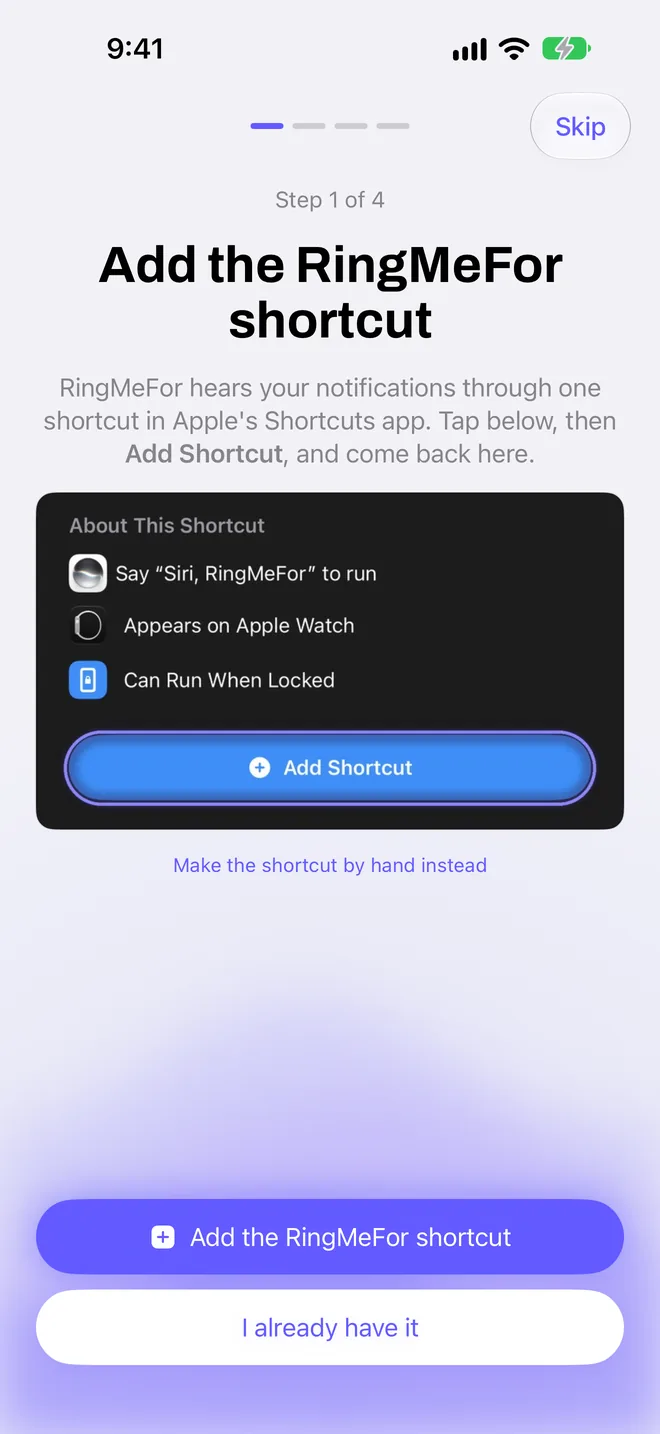
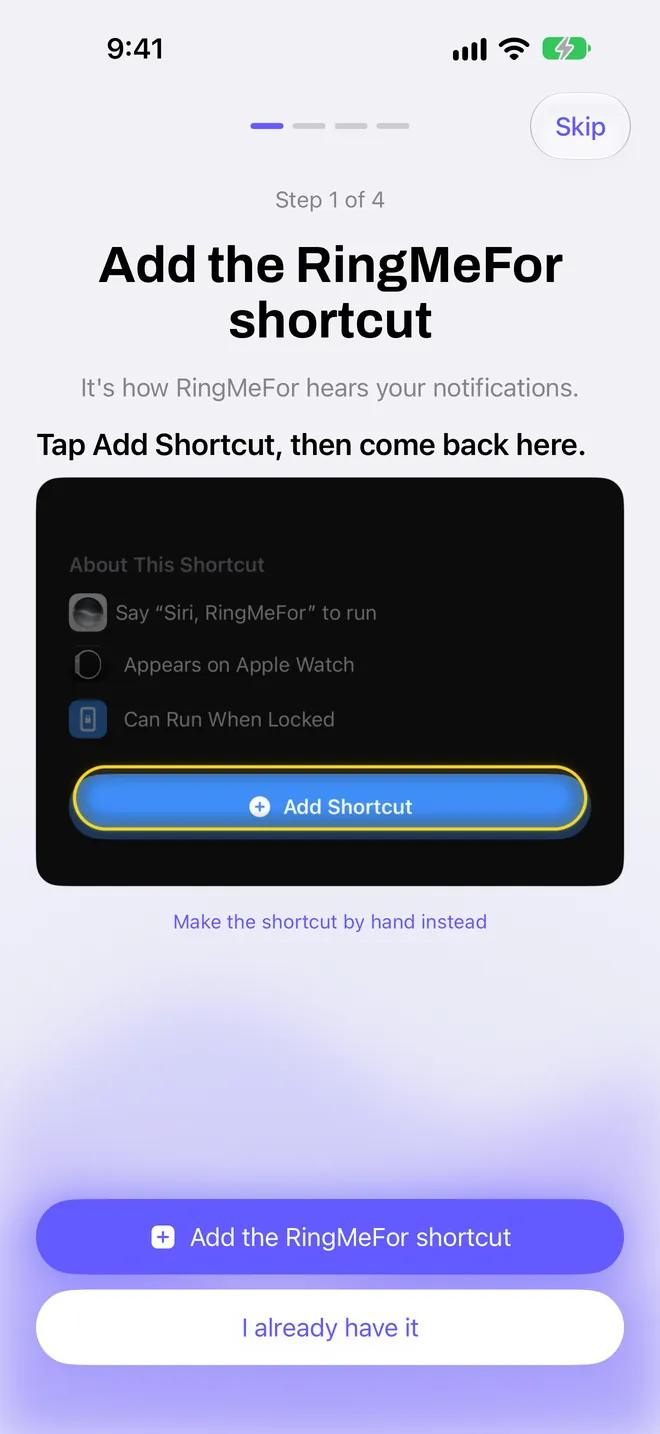
Setup steps in new wording, with new setup screenshots
Help: tap + next to the app names, find each app and tap it, tap the round
arrow next to +, switch on Automation and keep Notify off. Home: the setup
pages as the app shows them now. Also the help item for an app whose
notifications are off.

Claude-Session: https://claude.ai/code/session_014NKZs675oedrtAJAJBA9sZ

Changed region(s): [[0.0303, 0.2455, 0.9697, 0.6444]]

diff --git a/help.html b/help.html
@@ -68,10 +68,11 @@
       <h2 id="not-ringing">It didn't ring</h2>
       <p>Start in the app: tap the app on RingMeFor's Home screen, then <strong>Why Didn't It Ring?</strong>. It checks everything RingMeFor can see, and lists what to look at. The usual causes:</p>
       <div class="faq causes">
-<details class="slab-q"><summary>The app isn't in the RingMeFor shortcut.</summary><div class="answer"><ol class="fix"><li><span>In Shortcuts, tap <strong>RingMeFor</strong> in All Shortcuts, then <strong>Edit</strong>.</span></li><li><span>Look at the apps after “When I receive a notification from”.</span></li><li><span>If yours isn't there, tap <strong>+</strong> after the apps and pick it.</span></li></ol></div></details>
-<details class="slab-q"><summary>The automation is switched off.</summary><div class="answer"><ol class="fix"><li><span>In Shortcuts, tap <strong>RingMeFor</strong> in All Shortcuts, then <strong>Edit</strong>.</span></li><li><span>Tap the arrow at the end of the apps after “When I receive a notification from”.</span></li><li><span>Turn <strong>Automation</strong> on, and leave <strong>Notify</strong> off.</span></li></ol></div></details>
+<details class="slab-q"><summary>The app isn't in the RingMeFor shortcut.</summary><div class="answer"><ol class="fix"><li><span>In Shortcuts, open the RingMeFor shortcut and tap <strong>Edit</strong>.</span></li><li><span>Read the app names in “When I receive a notification from …”.</span></li><li><span>If yours isn't one of them, tap <strong>+</strong> next to the app names, then find your app and tap it.</span></li></ol></div></details>
+<details class="slab-q"><summary>The automation is switched off.</summary><div class="answer"><ol class="fix"><li><span>In Shortcuts, open the RingMeFor shortcut and tap <strong>Edit</strong>.</span></li><li><span>Tap the round arrow next to <strong>+</strong>.</span></li><li><span>Switch on <strong>Automation</strong>. Keep <strong>Notify</strong> off, or Shortcuts shows a banner every time it runs.</span></li></ol></div></details>
 <details class="slab-q"><summary>Allow Running When Locked is off, so nothing rings while your iPhone is locked.</summary><div class="answer"><ol class="fix"><li><span>In Shortcuts, open the RingMeFor shortcut and tap <strong>Edit</strong>.</span></li><li><span>Tap <strong>ⓘ</strong> at the bottom, then <strong>Privacy</strong>, and turn on Allow Running When Locked.</span></li></ol></div></details>
 <details class="slab-q"><summary>RingMeFor is hidden or requires Face ID.</summary><div class="answer"><ol class="fix"><li><span>Alarms from an app that's hidden or requires Face ID never ring.</span></li><li><span>Touch and hold the RingMeFor icon: if the menu says <strong>Don't Require Face ID</strong>, tap it.</span></li></ol></div></details>
+<details class="slab-q"><summary>The app's notifications may be off.</summary><div class="answer"><p>RingMeFor only hears notifications your iPhone receives. In <strong>Settings → Notifications</strong>, open the app and turn on <strong>Allow Notifications</strong>. Check the app's own settings too: some only notify for mentions, or not while you're active on a computer.</p></div></details>
 <details class="slab-q"><summary>A Focus, such as Sleep, or Scheduled Summary may be holding back the app's notifications.</summary><div class="answer"><ol class="fix"><li><span>Allow the app in each Focus you use: <strong>Settings → Focus</strong>.</span></li><li><span>Keep it out of <strong>Settings → Notifications → Scheduled Summary</strong>.</span></li></ol></div></details>
 <details class="slab-q"><summary>The app didn't send a notification.</summary><div class="answer"><ul class="fix"><li><span>Check <strong>Settings → Notifications</strong> and the app's own settings: some apps only notify for mentions.</span></li></ul></div></details>
 <details class="slab-q"><summary>RingMeFor is off, the app is off or paused, or the app shows Needs Pro to ring.</summary><div class="answer"><ol class="fix"><li><span>Tap <strong>On</strong> at the top of RingMeFor's Home screen, and turn on the app's switch.</span></li><li><span>If the app's page says <strong>Paused until…</strong>, tap <strong>Resume</strong>. A paused rule says “paused until …” under its name: touch and hold it, then tap <strong>Resume</strong>.</span></li><li><span>If the app shows <strong>Needs Pro to ring</strong>: free RingMeFor rings for one app (see <a href="#pro">RingMeFor Pro</a>).</span></li></ol></div></details>
@@ -91,9 +92,9 @@
       <ol class="steps">
   <li><span>Open RingMeFor and follow the setup: it explains the alarms, iOS asks whether RingMeFor may set alarms, and you pick the apps that should ring. Then it sets up the RingMeFor shortcut with you, one step a page, the steps below.</span></li>
   <li><span>Tap <strong>Add the RingMeFor shortcut</strong>, then <strong>Add Shortcut</strong>, and come back to RingMeFor. One shortcut covers all your apps, and it can already run while your iPhone is locked. Have it from before you reinstalled RingMeFor? Tap <strong>I already have it</strong> instead.</span></li>
-  <li><div>Next, add your apps to it. Tap <strong>Open the RingMeFor shortcut</strong>, then <strong>Edit</strong> at the top right. Tap <strong>+</strong> at the end of the apps after “When I receive a notification from” and pick one of your apps; tap <strong>+</strong> again for each of the others. Only apps on your iPhone can be picked. Reminders is already listed, so if it's your only app, there's no page for this.<figure class="help-shot"><img src="images/help-shortcut-apps.png" width="900" height="401" alt="The RingMeFor shortcut in Shortcuts: “When I receive a notification from RingMeFor or Reminders”, then a + button to add another app."></figure></div></li>
-  <li><div><strong>Don't skip this one.</strong> In the shortcut's editor (<strong>Open the RingMeFor shortcut</strong>, then <strong>Edit</strong>), tap the arrow at the end of the apps to show the automation's switches. Turn <strong>Automation</strong> on, and leave <strong>Notify</strong> off. Shared shortcuts always arrive switched off, and RingMeFor hears nothing until you turn it on.<figure class="help-shot"><img src="images/help-automation.png" width="900" height="553" alt="The RingMeFor shortcut's switches: Automation turned on, Notify off."></figure></div></li>
-  <li><span>Back in RingMeFor, on the last page (or later in <strong>Settings</strong>), tap <strong>Test with the Phone Locked</strong>, then <strong>Start the Test</strong>. If iOS asks whether RingMeFor may send notifications, allow it: the test uses a notification from RingMeFor itself. Then lock your iPhone. The first time, go to the Home Screen instead, so you can answer if Shortcuts asks whether RingMeFor can run: tap <strong>Always Allow</strong>, then run the test again with your iPhone locked. A test alarm rings within about 20 seconds; if it doesn't, the screen lists what to check.</span></li>
+  <li><div>Next, add your apps to it. Tap <strong>Open the RingMeFor shortcut</strong>, then <strong>Edit</strong> at the top right. Tap <strong>+</strong> next to the app names, then find one of your apps and tap it. Add each of the others the same way. Only apps on your iPhone are in the list. Reminders is already there, so if it's your only app, setup skips this page.<figure class="help-shot"><img src="images/help-shortcut-apps.png" width="900" height="401" alt="The RingMeFor shortcut in Shortcuts: “When I receive a notification from RingMeFor or Reminders”, then a + button to add another app."></figure></div></li>
+  <li><div><strong>Don't skip this one.</strong> Still in the shortcut's editor (<strong>Open the RingMeFor shortcut</strong>, then <strong>Edit</strong>), tap the round arrow next to <strong>+</strong>. Switch on <strong>Automation</strong>. Keep <strong>Notify</strong> off, or Shortcuts shows a banner every time it runs. A shortcut added from a link starts with its automation off, and RingMeFor hears nothing until you switch it on.<figure class="help-shot"><img src="images/help-automation.png" width="900" height="553" alt="In the RingMeFor shortcut, Automation switched on and Notify off."></figure></div></li>
+  <li><span>Return to RingMeFor. On the last page (or later in <strong>Settings</strong>), tap <strong>Test with the Phone Locked</strong>, then <strong>Start the Test</strong>. If iOS asks whether RingMeFor may send notifications, allow it: the test uses a notification from RingMeFor itself. Then lock your iPhone. The first time, go to the Home Screen instead, so you can answer if Shortcuts asks whether RingMeFor can run: tap <strong>Always Allow</strong>, then run the test again with your iPhone locked. A test alarm rings within about 20 seconds; if it doesn't, the screen lists what to check.</span></li>
   <li><span>Wait for a notification from your app, or ask someone to message you there. When RingMeFor hears from it, the app's row on the Home screen says Connected. A message rings only if it matches the app's rule: see <a href="#ready-made-rules">what a ready-made app rings for</a>.</span></li>
 </ol>
       <p class="note">Skipped setup? Until the shortcut is set up, the Home screen shows <strong>Finish setting up</strong>: tap <strong>Set Up the Shortcut</strong> for the same steps. Adding an app or tapping <strong>Connect</strong> takes you there too.</p>
@@ -103,7 +104,7 @@
 
     <section class="help-part" aria-labelledby="add-app">
       <h2 id="add-app">Adding an app later</h2>
-      <p>On RingMeFor's Home screen, tap <strong>Add Apps</strong> and pick the app from the 77 ready-made ones, or type its name under <strong>Another app</strong>, then tap <strong>Add</strong>. RingMeFor only hears apps listed in the RingMeFor shortcut, so it goes straight on to adding them there: tap <strong>Open the RingMeFor shortcut</strong>, then <strong>Edit</strong>, tap <strong>+</strong> after the apps, and pick each new app. If one is already listed there, as many were in the shortcut from RingMeFor 1.0, there's nothing to add for it. Each one turns green as soon as one of its notifications comes through. If you tap <strong>Done</strong> before that, the app shows <strong>Not connected yet</strong> on the Home screen; tap it, then <strong>Connect</strong>.</p>
+      <p>On RingMeFor's Home screen, tap <strong>Add Apps</strong> and pick the app from the 77 ready-made ones, or type its name under <strong>Another app</strong>, then tap <strong>Add</strong>. RingMeFor only hears apps listed in the RingMeFor shortcut, so it goes straight on to adding them there: tap <strong>Open the RingMeFor shortcut</strong>, then <strong>Edit</strong>, tap <strong>+</strong> next to the app names, then find each new app and tap it. If one is already listed there, as many were in the shortcut from RingMeFor 1.0, there's nothing to add for it. Each one turns green as soon as one of its notifications comes through. If you tap <strong>Done</strong> before that, the app shows <strong>Not connected yet</strong> on the Home screen; tap it, then <strong>Connect</strong>.</p>
 <p>Free RingMeFor rings for one app, with one rule. You can still add as many apps as you like: the others show <strong>Needs Pro to ring</strong>, and you can choose which app is the one that rings (see <a href="#pro">RingMeFor Pro</a>).</p>
     </section>
 
@@ -206,7 +207,7 @@
 <div class="faq">
 <details class="slab-q" id="ios-26"><summary>I'm on iOS 26.</summary><div class="answer"><p>RingMeFor needs iOS 27 or later, because the Shortcuts automation it relies on, “When I receive a notification from…”, came with iOS 27. To update, open <strong>Settings → General → Software Update</strong>.</p></div></details>
 <details class="slab-q" id="keep-open"><summary>Do I need to keep RingMeFor open?</summary><div class="answer"><p>No. When a notification arrives from one of the RingMeFor shortcut's apps, iOS runs the shortcut, which starts RingMeFor for a moment to check it.</p></div></details>
-<details class="slab-q" id="second-device"><summary>Can I use it on an iPad, or on more than one iPhone?</summary><div class="answer"><p>RingMeFor is made for iPhone. It may install on an iPad, but it isn't made or tested for one. On a second iPhone, <strong>Sync with iCloud</strong> (Settings → Your Data) brings your apps, groups, rules and alarm settings over and keeps them the same on both. Each iPhone still needs the RingMeFor shortcut and its automation: if you use iCloud for Shortcuts, the shortcut may already be there with its automation switched off, so turn it on (open the shortcut, tap <strong>Edit</strong>, then the arrow after its apps) and check Allow Running When Locked. History stays on each iPhone. Pro works on every iPhone signed in with the Apple Account you bought it with.</p></div></details>
+<details class="slab-q" id="second-device"><summary>Can I use it on an iPad, or on more than one iPhone?</summary><div class="answer"><p>RingMeFor is made for iPhone. It may install on an iPad, but it isn't made or tested for one. On a second iPhone, <strong>Sync with iCloud</strong> (Settings → Your Data) brings your apps, groups, rules and alarm settings over and keeps them the same on both. Each iPhone still needs the RingMeFor shortcut and its automation: if you use iCloud for Shortcuts, the shortcut may already be there with its automation switched off, so turn it on (open the shortcut, tap <strong>Edit</strong>, then the round arrow next to <strong>+</strong>) and check Allow Running When Locked. History stays on each iPhone. Pro works on every iPhone signed in with the Apple Account you bought it with.</p></div></details>
 <details class="slab-q" id="calls-texts"><summary>Can it ring for calls, texts or iMessages?</summary><div class="answer"><p>For calls and messages from people who matter, iOS has Emergency Bypass, which lets them sound even in Silent mode or a Focus: in <strong>Contacts</strong>, open the person, tap <strong>Edit</strong>, then <strong>Ringtone</strong> or <strong>Text Tone</strong>, and turn on <strong>Emergency Bypass</strong>. Messages and Phone are also among RingMeFor's ready-made apps: add them in RingMeFor and to the RingMeFor shortcut like any other app. Phone's first rule rings when the same caller calls twice within 5 minutes. With RingMeFor Pro, you can also add RingMeFor's <strong>Ring Alarm</strong> action to a Shortcuts automation of your own.</p></div></details>
 <details class="slab-q" id="internet"><summary>Does it need an internet connection? What about abroad or with a VPN?</summary><div class="answer"><p>RingMeFor itself doesn't use the internet, so roaming or a VPN doesn't change what it does. The apps you watch need a connection to get their notifications, and buying or restoring Pro needs the App Store. Rules with times follow your iPhone's clock, so they move with your time zone.</p></div></details>
 <details class="slab-q" id="language"><summary>Is RingMeFor in my language?</summary><div class="answer"><p>Its screens are in English. Your rules work in any language: capital letters and accents don't matter, and words in Chinese, Japanese and Thai match inside sentences.</p></div></details>
@@ -219,7 +220,7 @@
 <details class="slab-q" id="focus"><summary>Does it ring during Sleep or another Focus?</summary><div class="answer"><p>The alarm itself rings through Silent mode and any Focus. It isn't confirmed yet whether iOS runs the RingMeFor shortcut for a notification that your Focus silences. To be safe, allow the apps you rely on in each Focus you use, such as Sleep (<strong>Settings → Focus</strong>), and keep them out of <strong>Settings → Notifications → Scheduled Summary</strong>. That also lets their other notifications through in that Focus. For the nightly check, allow RingMeFor too.</p></div></details>
 <details class="slab-q" id="restart"><summary>My iPhone restarted. Do I need to do anything?</summary><div class="answer"><p>Unlock it once. After a restart, iOS keeps RingMeFor's data locked until you first unlock your iPhone, so nothing rings until then. For the first few minutes after that, while iOS finishes starting up, it may pass notifications to RingMeFor late, so the first alarm can come a few minutes after the message. iPhones restart for automatic iOS updates, when the battery runs out, and after about 72 hours without being unlocked. If you rely on RingMeFor overnight, turn off automatic iOS updates (<strong>Settings → General → Software Update → Automatic Updates</strong>), or unlock your iPhone after an update.</p></div></details>
 <details class="slab-q" id="late"><summary>It rang long after the message arrived.</summary><div class="answer"><p>A notification can reach RingMeFor late: an app may deliver it only when your iPhone is back online, and for a few minutes after a restart iOS may pass notifications on late. If a late alarm is no use to you, set <strong>Settings → Skip if late by</strong> to 5, 10 or 30 minutes: a notification that reaches RingMeFor later than that after it was sent stays quiet, and History says how late it was. Time Sensitive notifications are never skipped for being late.</p></div></details>
-<details class="slab-q" id="after-update"><summary>It stopped working after an iOS update.</summary><div class="answer"><p>Unlock your iPhone once, then run <strong>Settings → Test with the Phone Locked</strong>. If no alarm rings, the screen lists what to check: your apps in the shortcut, the automation switch (open the shortcut, tap <strong>Edit</strong>, then the arrow after its apps) and Allow Running When Locked. If it still doesn't work, add the shortcut again: tap your app on RingMeFor's Home screen, then <strong>Set Up the Connection Again</strong>, <strong>I don't have the RingMeFor shortcut</strong> and <strong>Add the RingMeFor shortcut</strong>, and add your apps to it if they aren't listed. Then delete the old copy in Shortcuts. To hear about it sooner next time, turn on the nightly check on the same test screen.</p></div></details>
+<details class="slab-q" id="after-update"><summary>It stopped working after an iOS update.</summary><div class="answer"><p>Unlock your iPhone once, then run <strong>Settings → Test with the Phone Locked</strong>. If no alarm rings, the screen lists what to check: your apps in the shortcut, the automation switch (open the shortcut, tap <strong>Edit</strong>, then the round arrow next to <strong>+</strong>) and Allow Running When Locked. If it still doesn't work, add the shortcut again: tap your app on RingMeFor's Home screen, then <strong>Set Up the Connection Again</strong>, <strong>I don't have the RingMeFor shortcut</strong> and <strong>Add the RingMeFor shortcut</strong>, and add your apps to it if they aren't listed. Then delete the old copy in Shortcuts. To hear about it sooner next time, turn on the nightly check on the same test screen.</p></div></details>
 <details class="slab-q" id="lock-screen"><summary>Does the alarm show my messages on the Lock Screen?</summary><div class="answer"><p>Not unless you turn that on. For chat and email apps, the alarm shows the app and who the message is from, such as “Discord · Alice”. For reminders, calendar, alerts, trading, payments and cameras, it shows the app and the rule's name, such as “Reminders · Due reminders”. Turn on <strong>Settings → Show the message</strong> to add the first line: “Discord · Alice: Are you up?”. Alarms show on the Lock Screen, in StandBy and on a paired Apple Watch even if you hide notification previews, so leave Show the message off if others can see your iPhone.</p></div></details>
 <details class="slab-q" id="apple-watch"><summary>Does it work with Apple Watch or CarPlay?</summary><div class="answer"><p>If your iPhone is paired with an Apple Watch, the alarm also shows on the watch, with Stop and Snooze. It isn't confirmed yet whether Stop on the watch also ends Ring again's repeats; if a “Still:” alarm rings afterwards, stop it on your iPhone. RingMeFor has no CarPlay app of its own, and how its alarms show in CarPlay hasn't been tested.</p></div></details>
 <details class="slab-q" id="nightly-check"><summary>Why does RingMeFor send me a notification every night?</summary><div class="answer"><p>That's the nightly check, if you turned it on. At 9:00 PM, or the time you chose, RingMeFor sends itself a notification without a sound, and the RingMeFor shortcut passes it back. If it doesn't come back within 5 minutes, you get a warning, so you find out before you rely on it. To stop it, turn the nightly check off on the <strong>Test with the Phone Locked</strong> screen. Don't turn off RingMeFor's notifications instead: the check needs them to warn you.</p></div></details>
@@ -240,7 +241,7 @@
 <details class="slab-q" id="action-unavailable"><summary>Check Notification shows as unavailable in the shortcut.</summary><div class="answer"><p>Open RingMeFor once, then restart your iPhone: on some iPhones with iOS 27, apps' actions have gone missing from Shortcuts for a while. If it still shows, try again the next day, and <a href="#contact">email me</a> if it doesn't clear.</p></div></details>
 <details class="slab-q" id="shortcut-twice"><summary>I added the shortcut twice.</summary><div class="answer"><p>Keep one: with two copies, each notification reaches RingMeFor twice, and Home shows a note about it. This can happen when you add the link again after reinstalling RingMeFor, even if Shortcuts offers to replace the old one. In Shortcuts, touch and hold the RingMeFor shortcut you don't need in All Shortcuts, tap <strong>Delete</strong>, and make sure the one you keep is named RingMeFor, lists your apps and has its automation on. After reinstalling RingMeFor, you don't need to add the shortcut again: the one you have keeps working.</p></div></details>
 <details class="slab-q" id="shortcut-wont-open"><summary>Nothing happens when I tap Add the RingMeFor shortcut or Open the RingMeFor shortcut.</summary><div class="answer"><p>Both open Apple's Shortcuts app, so check that it's installed; if you deleted it, get Shortcuts again from the App Store. <strong>Open the RingMeFor shortcut</strong> finds the shortcut by its name: if you renamed it, open Shortcuts, tap <strong>Library</strong> and open it from there, or rename it back to RingMeFor.</p></div></details>
-<details class="slab-q" id="new-iphone"><summary>I got a new iPhone, restored a backup or reinstalled RingMeFor.</summary><div class="answer"><p>If you restored a backup, your apps, rules and History come back. Otherwise, with Sync with iCloud on, your apps, groups, rules and settings come back from iCloud, and <strong>Import Apps and Rules</strong> opens a file you exported; History starts again. Pro comes back with your Apple Account; if it doesn't, tap <strong>Settings → Restore Purchases</strong>. On a new or restored iPhone, the RingMeFor automation may arrive switched off. Open the RingMeFor shortcut, tap <strong>Edit</strong>, then the arrow after its apps, and turn <strong>Automation</strong> on; check Allow Running When Locked (open the shortcut, tap <strong>ⓘ</strong>, then <strong>Privacy</strong>), then run <strong>Settings → Test with the Phone Locked</strong>. If you add the shortcut again, delete the old copy, or each notification is checked twice.</p></div></details>
+<details class="slab-q" id="new-iphone"><summary>I got a new iPhone, restored a backup or reinstalled RingMeFor.</summary><div class="answer"><p>If you restored a backup, your apps, rules and History come back. Otherwise, with Sync with iCloud on, your apps, groups, rules and settings come back from iCloud, and <strong>Import Apps and Rules</strong> opens a file you exported; History starts again. Pro comes back with your Apple Account; if it doesn't, tap <strong>Settings → Restore Purchases</strong>. On a new or restored iPhone, the RingMeFor automation may arrive switched off. Open the RingMeFor shortcut, tap <strong>Edit</strong>, then the round arrow next to <strong>+</strong>, and switch on <strong>Automation</strong>; check Allow Running When Locked (open the shortcut, tap <strong>ⓘ</strong>, then <strong>Privacy</strong>), then run <strong>Settings → Test with the Phone Locked</strong>. If you add the shortcut again, delete the old copy, or each notification is checked twice.</p></div></details>
 </div>
 <h3 class="group">History</h3>
 <div class="faq">

diff --git a/index.html b/index.html
@@ -192,8 +192,8 @@
     <ol class="setup-shots">
       <li><figure class="phone setup-phone"><div class="phone-edge"><div class="phone-glass"><div class="phone-screen"><img src="images/app/welcome.webp" width="660" height="1434" alt="RingMeFor's welcome screen: A real alarm for the messages you can't miss, even in Silent mode or a Focus, and Get Started." loading="lazy" decoding="async"></div><span class="phone-island" aria-hidden="true"></span></div></div></figure><p><span><a data-config="store-link" href="https://apps.apple.com/us/app/ringmefor-notification-alarm/id6828677351">Get RingMeFor</a> and choose your apps.</span></p></li>
       <li><figure class="phone setup-phone"><div class="phone-edge"><div class="phone-glass"><div class="phone-screen"><img src="images/app/setup-1.webp" width="660" height="1434" alt="Setup, step 1 of 4: Add the RingMeFor shortcut, with Shortcuts' Add Shortcut screen and I already have it." loading="lazy" decoding="async"></div><span class="phone-island" aria-hidden="true"></span></div></div></figure><p><span>Add the RingMeFor shortcut.</span></p></li>
-      <li><figure class="phone setup-phone"><div class="phone-edge"><div class="phone-glass"><div class="phone-screen"><img src="images/app/setup-2.webp" width="660" height="1434" alt="Setup, step 2 of 4: Add Slack and Microsoft Teams to it. In Shortcuts, open RingMeFor, tap Edit, then + after the apps." loading="lazy" decoding="async"></div><span class="phone-island" aria-hidden="true"></span></div></div></figure><p><span>Add your apps to it with +.</span></p></li>
-      <li><figure class="phone setup-phone"><div class="phone-edge"><div class="phone-glass"><div class="phone-screen"><img src="images/app/setup-3.webp" width="660" height="1434" alt="Setup, step 3 of 4: Turn on its automation, with the shortcut's Automation switch on and Notify off." loading="lazy" decoding="async"></div><span class="phone-island" aria-hidden="true"></span></div></div></figure><p><span>Turn on its automation. It arrives switched off, and only you can turn it on.</span></p></li>
+      <li><figure class="phone setup-phone"><div class="phone-edge"><div class="phone-glass"><div class="phone-screen"><img src="images/app/setup-2.webp" width="660" height="1434" alt="Setup, step 2 of 4: Add Slack and Microsoft Teams to it. Open the shortcut and tap Edit, then tap + next to the app names." loading="lazy" decoding="async"></div><span class="phone-island" aria-hidden="true"></span></div></div></figure><p><span>Add your apps to it with +.</span></p></li>
+      <li><figure class="phone setup-phone"><div class="phone-edge"><div class="phone-glass"><div class="phone-screen"><img src="images/app/setup-3.webp" width="660" height="1434" alt="Setup, step 3 of 4: Turn on its automation. Tap the round arrow next to +, then switch on Automation and keep Notify off." loading="lazy" decoding="async"></div><span class="phone-island" aria-hidden="true"></span></div></div></figure><p><span>Turn on its automation. It arrives switched off, and only you can turn it on.</span></p></li>
     </ol>
     <p class="setup-last">Then run Test with the Phone Locked, and lock your iPhone: a test alarm rings within about 20 seconds.</p>
   </div>
